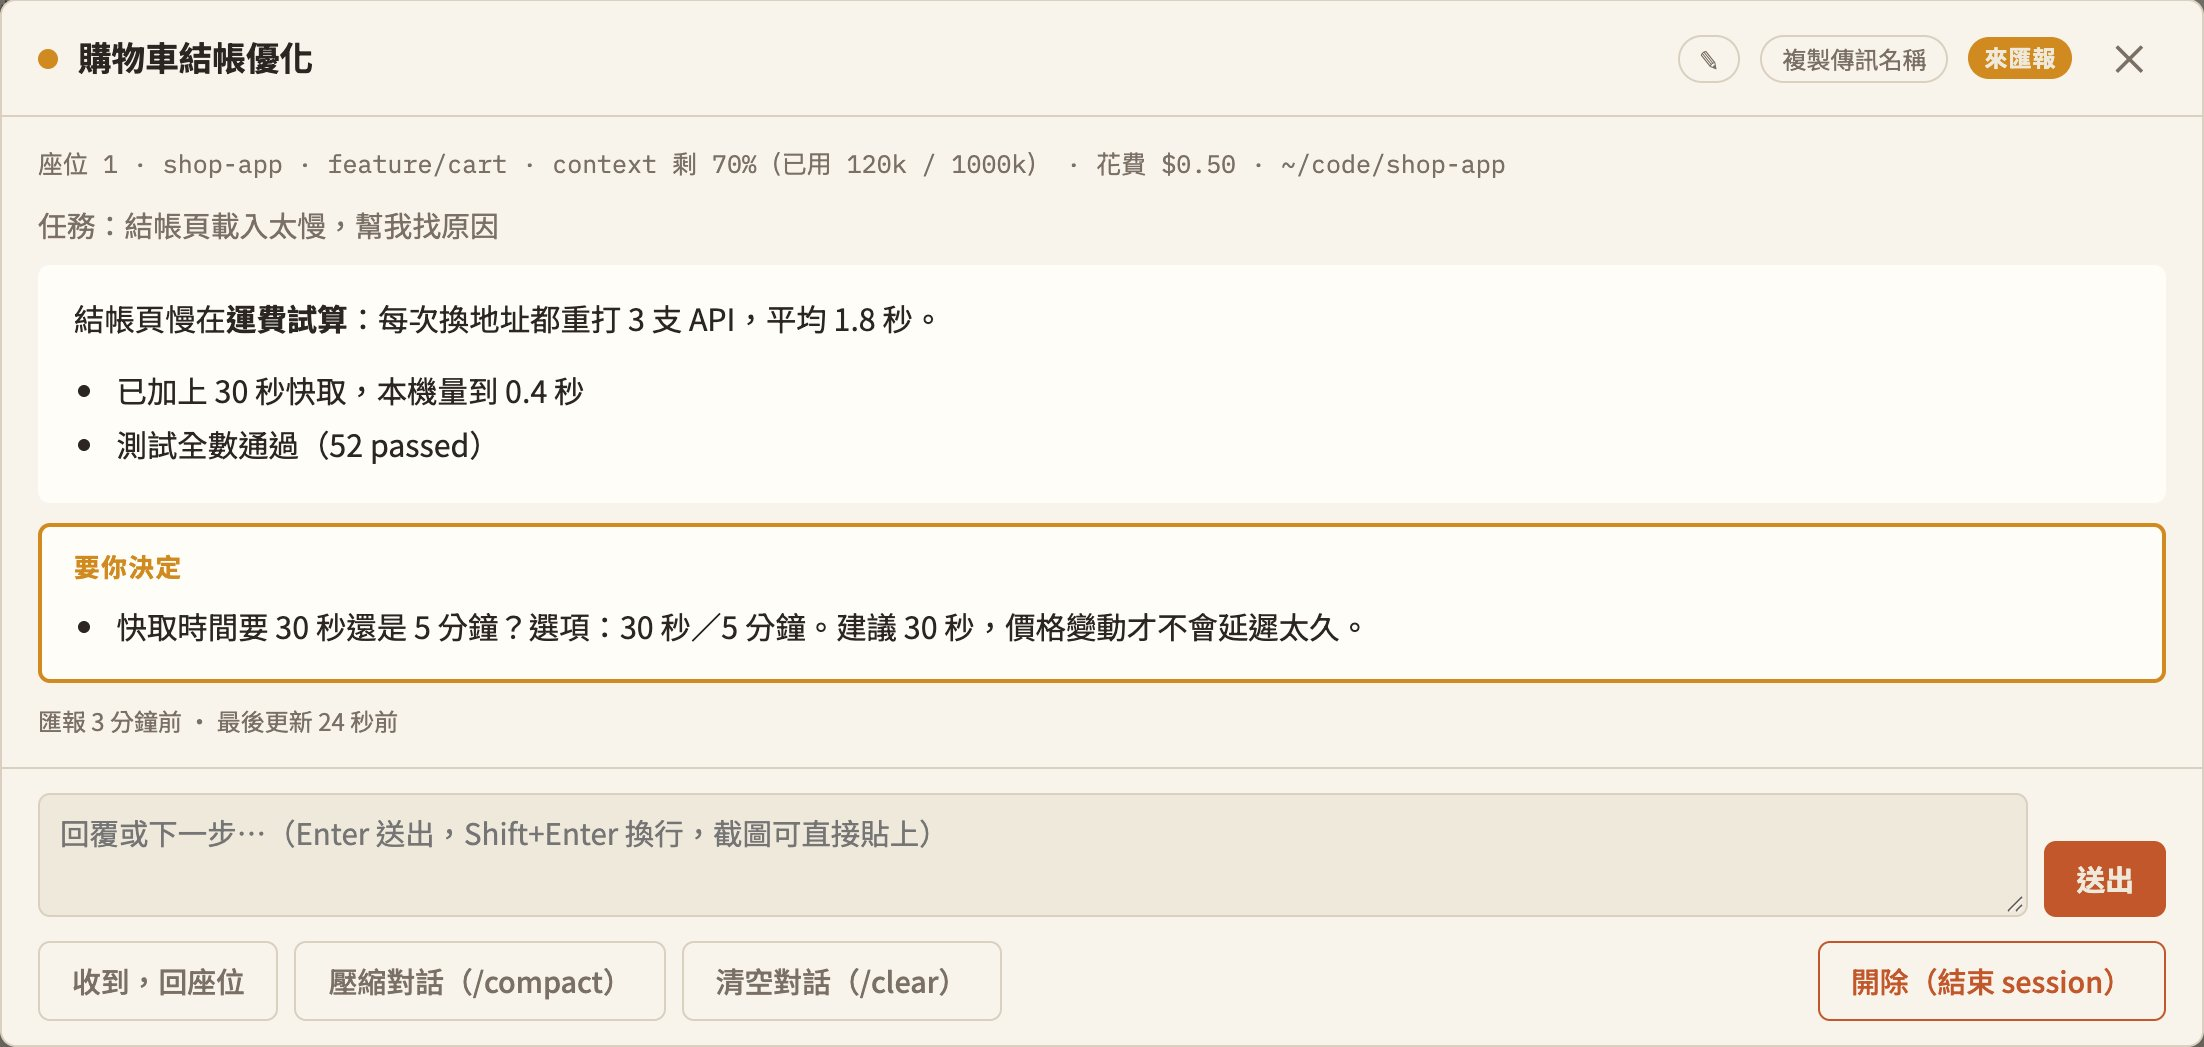
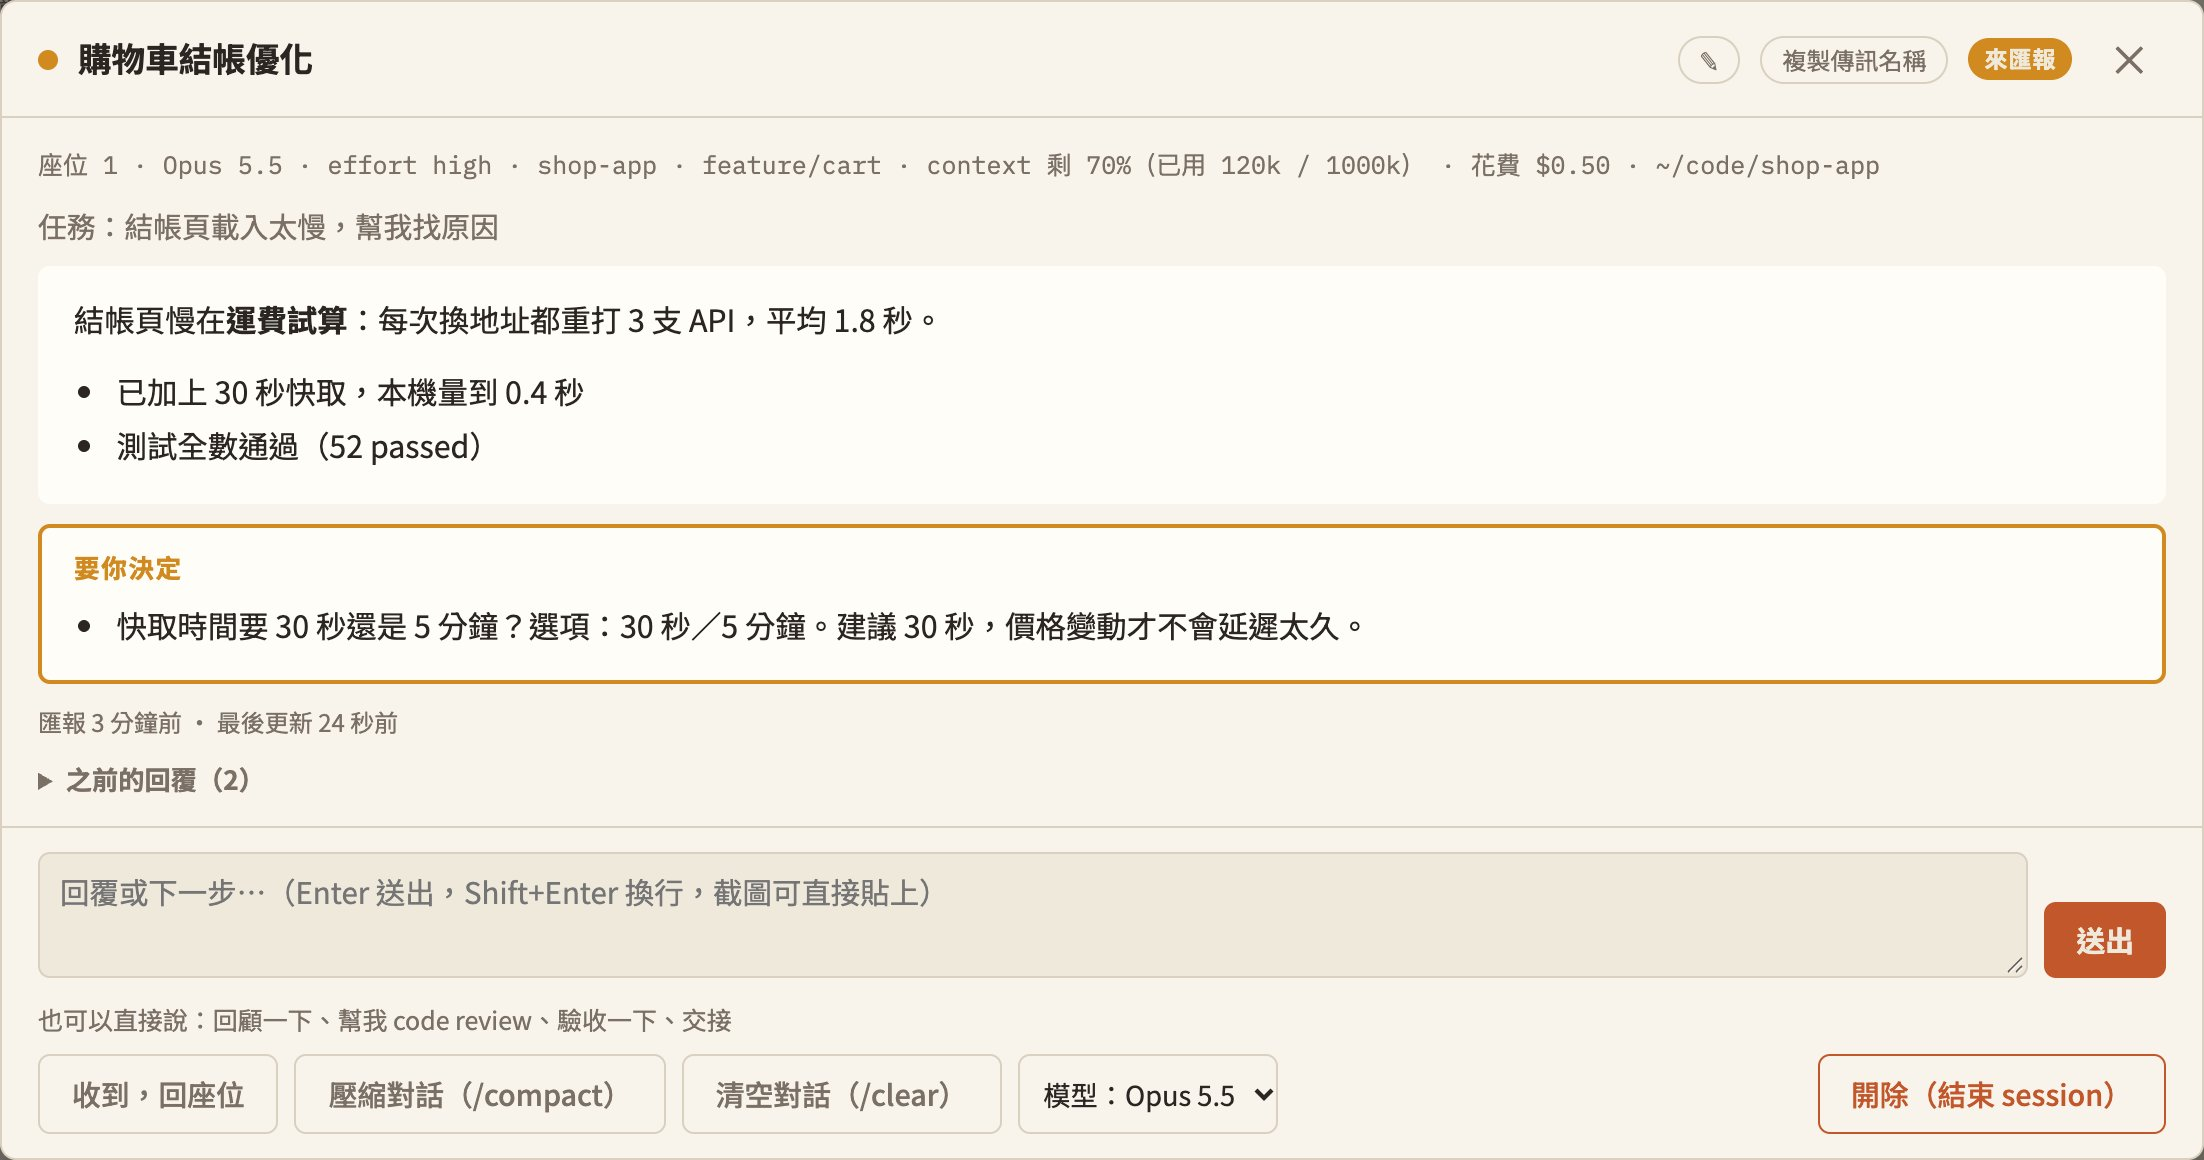
docs(manual): retake report screenshot, document bg-wait, model picker and config options

diff --git a/docs/manual/index.html b/docs/manual/index.html
@@ -155,6 +155,7 @@ html { scroll-behavior: smooth; }
     <thead><tr><th>狀態</th><th>在辦公室裡</th><th>名單分組</th></tr></thead>
     <tbody>
       <tr><td>工作中</td><td>坐在位子上，螢幕亮著</td><td><span class="dot" style="background:var(--ok)"></span>工作中</td></tr>
+      <tr><td>等背景工作</td><td>一樣坐在位子上，名牌前多一個 ⏳；它在等自己開的背景工作（subagent、背景指令）跑完</td><td><span class="dot" style="background:var(--ok)"></span>工作中，後面標 ⏳ 和幾件</td></tr>
       <tr><td>來匯報</td><td>走進你的辦公室排隊，前三位在你桌前，其餘在門外</td><td><span class="dot" style="background:var(--wait)"></span>等你處理</td></tr>
       <tr><td>卡住等你</td><td>一樣來排隊，匯報視窗標「卡住等你」</td><td><span class="dot" style="background:var(--wait)"></span>等你處理</td></tr>
       <tr><td>閒置</td><td>坐在位子上，頭上冒 z</td><td><span class="dot" style="background:var(--muted)"></span>閒置</td></tr>
@@ -173,7 +174,7 @@ html { scroll-behavior: smooth; }
 <section id="report">
   <h2><span class="no">04</span>處理匯報</h2>
   <p>點名單上的一列、點同事或點泡泡，都會打開同一個匯報視窗。讀完、回一句或按「收到」，它就回座位。</p>
-  <figure class="shot" data-shot="report"><div class="frame"><div class="imgbox"><img src="img/report.jpg" width="2204" height="1047" alt="匯報視窗"></div></div>
+  <figure class="shot" data-shot="report"><div class="frame"><div class="imgbox"><img src="img/report.jpg" width="2204" height="1160" alt="匯報視窗"></div></div>
     <figcaption><span>示範資料。</span><span>點圖放大</span></figcaption></figure>
   <ol class="legend" data-for="report"></ol>
   <h3>常用說法</h3>
@@ -192,7 +193,7 @@ html { scroll-behavior: smooth; }
     <li><b>已重送</b>：第一次沒進到對話，辦公室自動再送一次。</li>
     <li><b>沒送到</b>（紅字）：重送後還是沒進去，例如你在 terminal 按了中斷，排隊中的指令會被清掉。請再傳一次，或到它的 terminal 輸入。</li>
   </ul>
-  <div class="note">網頁上的匯報只是最新一輪的副本；完整對話一直在那個 session 的 terminal 分頁裡。</div>
+  <div class="note">網頁上的匯報只是最新一輪的副本，前幾輪可以從「之前的回覆」展開；完整對話一直在那個 session 的 terminal 分頁裡。</div>
 </section>
 
 <section id="blocked">
@@ -227,7 +228,7 @@ html { scroll-behavior: smooth; }
       <tr><td>＋ 新開 session</td><td>頁首右上</td><td>填目錄、桌牌、第一個任務（後兩個可空），幾秒後新同事進來坐下</td></tr>
       <tr><td>壓縮對話</td><td>匯報視窗</td><td>送 <code>/compact</code>；context 快滿時用，血條會回升</td></tr>
       <tr><td>清空對話</td><td>匯報視窗</td><td>送 <code>/clear</code>；開始全新對話，桌牌和匯報一起清掉</td></tr>
-      <tr><td>換模型</td><td>匯報視窗下方的「模型：…」選單</td><td>選單第一行是目前的模型；可選 Fable、Opus、Sonnet、Haiku，選了會顯示「換成 … 中」，換好就變回「模型：…」</td></tr>
+      <tr><td>換模型</td><td>匯報視窗下方的「模型：…」選單（〈處理匯報〉截圖的第 14 號）</td><td>選單第一行是目前的模型；可選 Fable、Opus、Sonnet、Haiku，選了會顯示「換成 … 中」，換好就變回「模型：…」</td></tr>
       <tr><td>交接給 Codex</td><td>用量快沒了時，匯報視窗會出現提示</td><td>5 小時用量剩 15% 以下時按「請它交接」，它寫好交接檔後按「開 Codex 接手」，橋接會在新的 iTerm 分頁開 Codex 接著做</td></tr>
       <tr><td>開除</td><td>匯報視窗右下</td><td>要再按一次「確定開除」；結束 session 並關掉分頁</td></tr>
       <tr><td>改名</td><td>匯報視窗標題旁的 ✎</td><td>打新名字按 Enter；也可以在 terminal 打 <code>/office name 新名字</code> 或 <code>/rename 新名字</code>，或直接叫 session 改名。桌牌、名單和 session 標題一起換</td></tr>
@@ -249,10 +250,10 @@ html { scroll-behavior: smooth; }
 <section id="more">
   <h2><span class="no">09</span>其他功能</h2>
   <div class="cards">
-    <div class="card"><h4>Codex 秘書</h4><p>你辦公室裡的秘書，頭上是 Codex 5 小時和每週用量還剩多少。太久沒用 Codex 時，名牌會標資料是多久前的。</p></div>
-    <div class="card"><h4>Jira 我的票</h4><p>橋接每 2 分鐘抓一次。票號出現在某個 session 的桌牌或任務裡，票就會標綠框並附上那位同事，點了打開它。</p></div>
+    <div class="card"><h4>Codex 秘書</h4><p>你辦公室裡的秘書，頭上是 Codex 5 小時和每週用量還剩多少。太久沒用 Codex 時，名牌會標資料是多久前的。不用 Codex 的話，在 <code>config.json</code> 設 <code>"codex": false</code> 就會拿掉秘書。</p></div>
+    <div class="card"><h4>Jira 我的票</h4><p>選用的：<code>config.json</code> 沒設 <code>jira</code> 時整欄不顯示。橋接每 2 分鐘抓一次。票號出現在某個 session 的桌牌、任務或分支名稱裡，票就會標綠框並附上那位同事，點了打開它。</p></div>
     <div class="card"><h4>中 / EN</h4><p>頁首切換介面語言，記在這台瀏覽器；各 session 自己寫的回覆不會翻譯。</p></div>
-    <div class="card"><h4>窗外景色</h4><p>跟著台北當地時間日出、白天、黃昏、黑夜。網址加 <code>#t1830</code> 可以預覽 18:30 的樣子。</p></div>
+    <div class="card"><h4>窗外景色</h4><p>依所在城市的日出日落變成白天、黃昏、黑夜，預設是台北；在 <code>config.json</code> 設 <code>"city": { "lat": …, "lng": … }</code> 可以換城市。網址加 <code>#t1830</code> 可以預覽 18:30 的樣子。</p></div>
   </div>
 </section>
 
@@ -302,7 +303,7 @@ const PINS = {
     [19.6, 41.4, 'Codex 秘書', '頭上是 Codex 用量；太久沒更新名牌會標多久前'],
     [24.4, 58, '來匯報的同事', '在你桌前排隊，前三位在桌前，其餘在門外'],
     [44.8, 41.4, '要你決定', '排第一位的同事有要你決定的事，泡泡只列那幾件'],
-    [56.6, 21, '窗外', '跟著台北時間日出、黃昏、黑夜'],
+    [56.6, 21, '窗外', '跟著所在城市的日出、黃昏、黑夜，預設台北'],
     [74.4, 12, 'Jira 我的票', '指派給你、還沒完成的票，依狀態分組'],
     [60.6, 44, '工作中的同事', '坐在自己的位子上，頭上是名牌和 context 血條'],
     [18.4, 70.4, '時鐘', '目前時間'],
@@ -310,18 +311,21 @@ const PINS = {
     [58.6, 78.4, '空桌', '永遠多擺一組，給下一位新同事'],
   ],
   report: [
-    [76.1, 3.3, '改名 ✎', '標題變成輸入框，Enter 存檔；session 標題也會跟著換'],
-    [79.9, 3.3, '複製傳訊名稱', '別的 session 傳訊息給它時用的名字'],
-    [89.3, 3.6, '狀態', '來匯報、工作中或卡住等你'],
-    [-0.3, 15.7, '資訊列', '座位、模型、effort、專案、分支、context 剩多少、花費'],
-    [-0.3, 21.5, '任務', '它這一輪在做什麼'],
-    [-0.3, 28.5, '匯報內容', '這一輪的回覆，支援表格和程式碼'],
-    [-0.3, 53, '要你決定', '獨立成橘色框，每件一句問題＋選項＋建議'],
-    [-0.3, 78.8, '回覆框', 'Enter 送出、Shift+Enter 換行，可以直接貼截圖'],
-    [92.8, 80.5, '送出', '它接到後回座位開工'],
-    [1.7, 90, '收到，回座位', '不用回覆、看過就好時按'],
-    [13.4, 90, '壓縮／清空對話', '送 /compact 或 /clear'],
-    [82.4, 90, '開除', '結束 session，要再按一次確認'],
+    [76.1, 3, '改名 ✎', '標題變成輸入框，Enter 存檔；session 標題也會跟著換'],
+    [79.9, 3, '複製傳訊名稱', '別的 session 傳訊息給它時用的名字'],
+    [89.3, 3.2, '狀態', '來匯報、工作中、等背景工作或卡住等你'],
+    [-0.3, 14.2, '資訊列', '座位、模型、effort、專案、分支、context 剩多少、花費'],
+    [-0.3, 19.4, '任務', '它這一輪在做什麼'],
+    [-0.3, 25.7, '匯報內容', '這一輪的回覆，支援表格和程式碼'],
+    [-0.3, 47.9, '要你決定', '獨立成橘色框，每件一句問題＋選項＋建議'],
+    [-0.3, 67.2, '之前的回覆', '點開看前幾輪的任務和回覆，最新的在上面'],
+    [-0.3, 76.3, '回覆框', 'Enter 送出、Shift+Enter 換行，可以直接貼截圖'],
+    [92.8, 77.8, '送出', '它接到後回座位開工'],
+    [36.5, 88.6, '常用說法', '這幾句直接打就會觸發，見下方表格'],
+    [1.7, 97.6, '收到，回座位', '不用回覆、看過就好時按'],
+    [13.4, 97.6, '壓縮／清空對話', '送 /compact 或 /clear'],
+    [46.2, 97.6, '模型', '目前的模型；選別的就換過去'],
+    [82.4, 97.6, '開除', '結束 session，要再按一次確認'],
   ],
   tutor: [
     [73.4, 5.2, '翻譯方向', '中文翻英文，其他翻繁體中文'],
